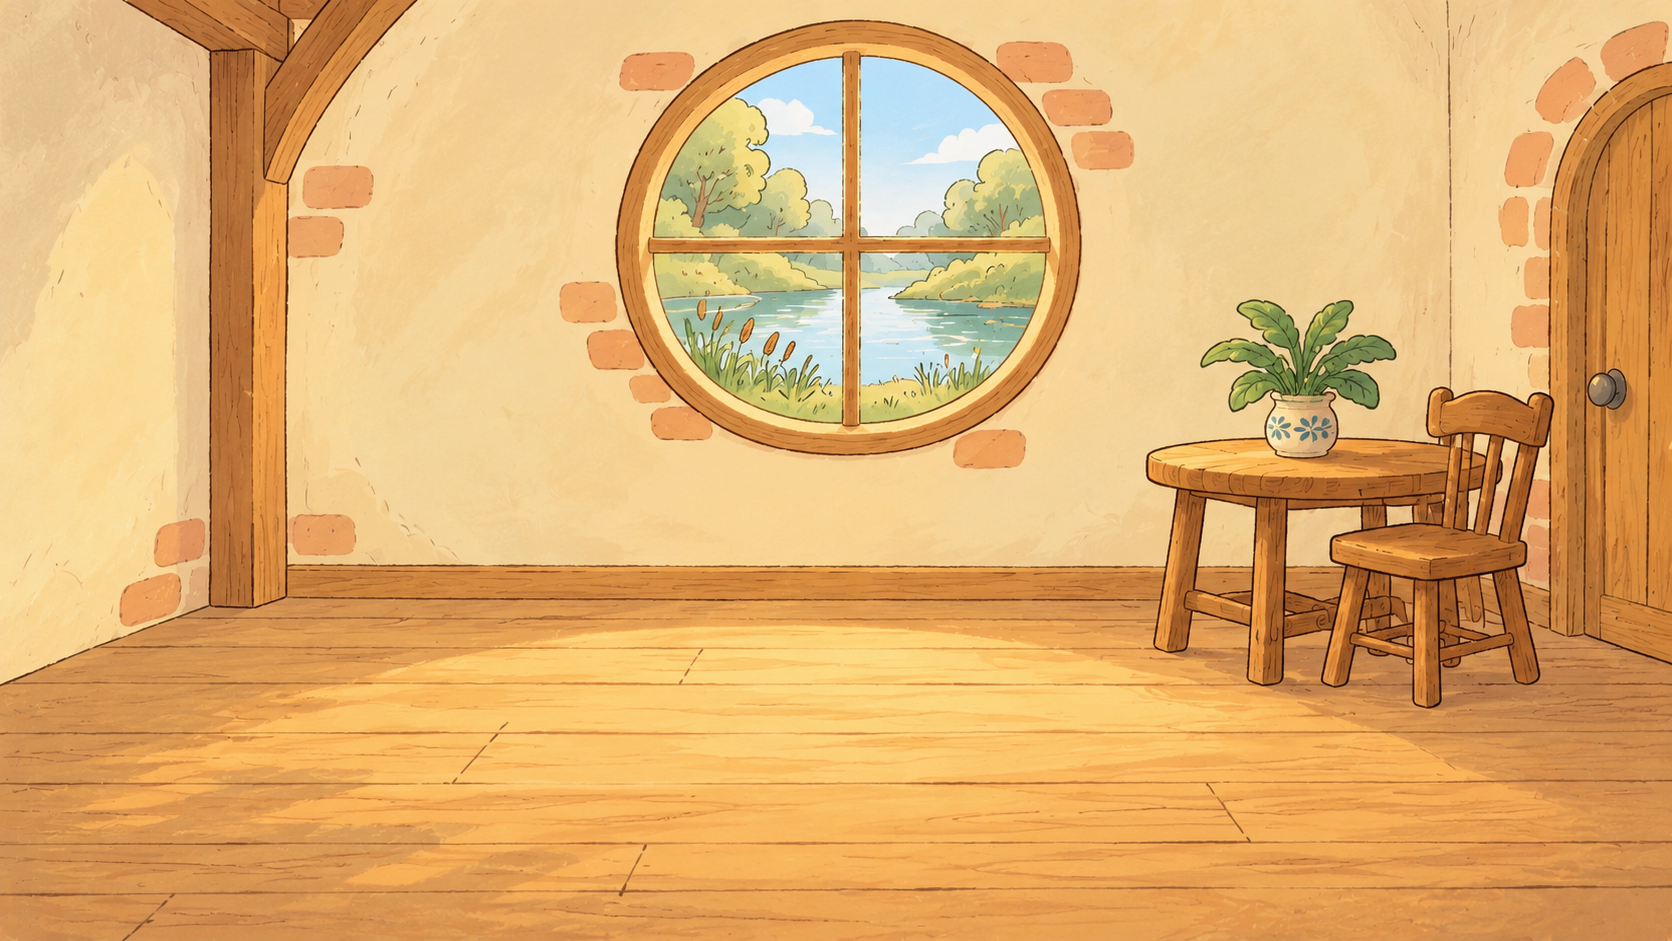
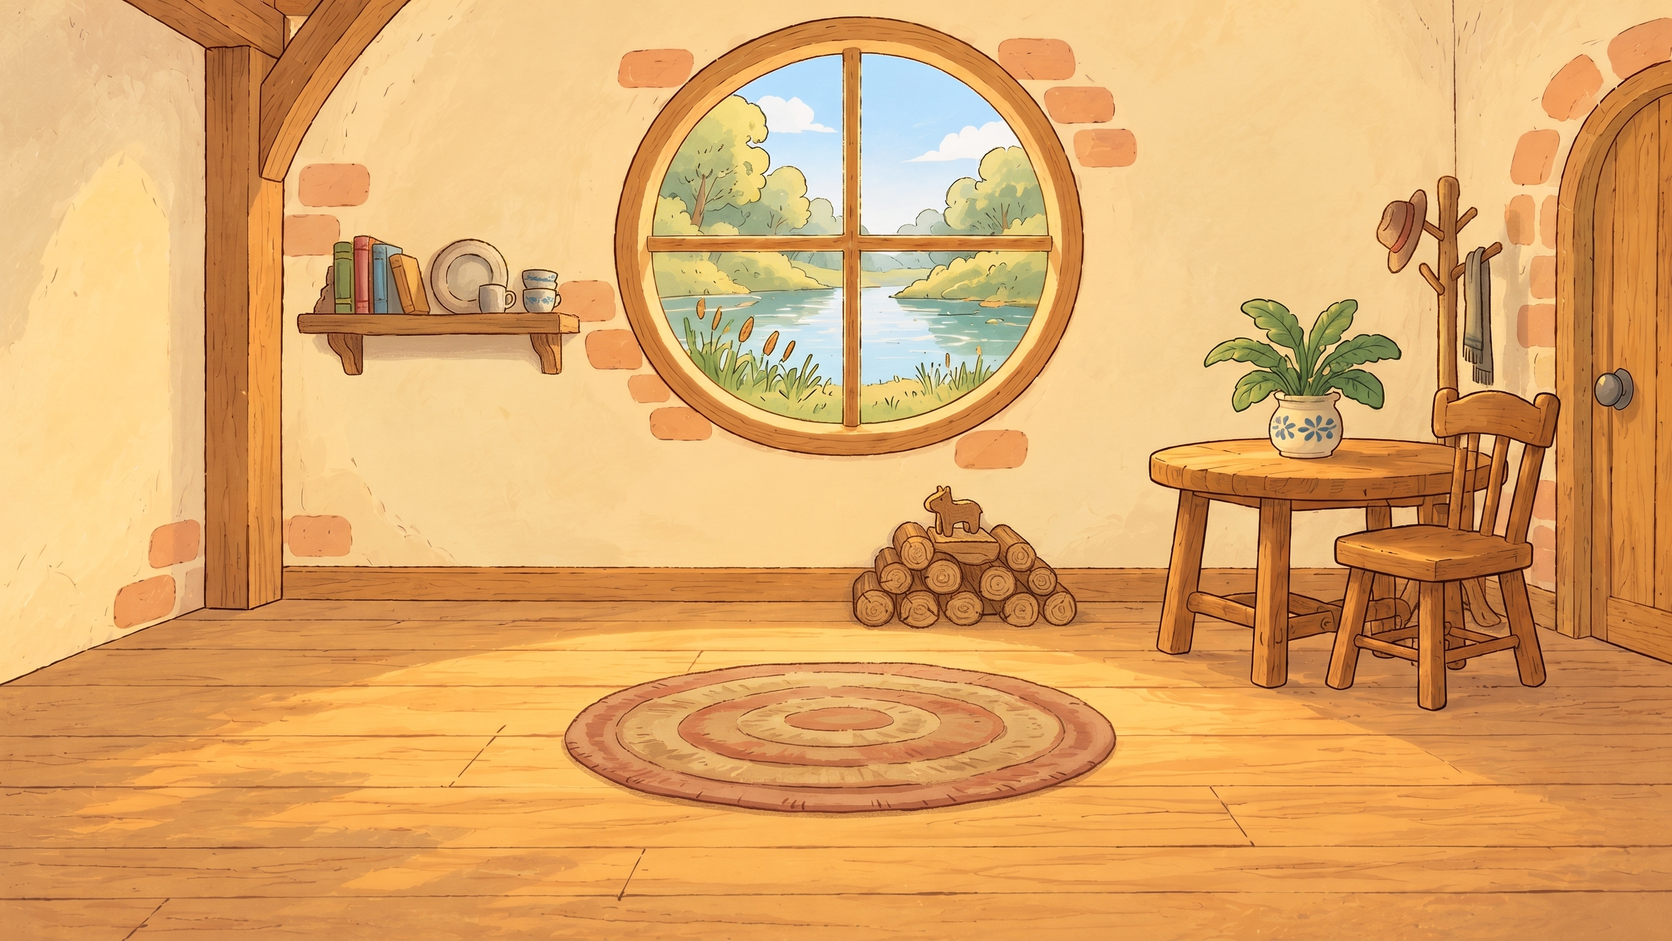
Ben's house gets a shelf, a log pile with a carving, a round rug and a coat stand (Higgsfield edit)

diff --git a/HANDOFF.md b/HANDOFF.md
@@ -493,7 +493,7 @@ node server.js            # http://localhost:5173/
 | 용도 | 적용 파일 (`assets/` 아래) | 비고 |
 |---|---|---|
 | 도서관 | `places/library-higgsfield-v2.png` | 사용자 제작, 1376×768 |
-| 소풍 가방 장소 그림 | `places/picnic-storyboard/picnic-wide.png`(소풍 탁자), `cafe-day.png`(낮의 호수 카페), `ben-home.png`(벤의 집), `garden.webp`(정원), `picnic-documents.png`(로지가 맡긴 가방 소지품 사진) | 사용자 제공·Codex 편집·기존 Higgsfield 그림(출처는 같은 폴더 README). 정원의 두 가방은 소풍 탁자 그림의 가방을 오려 색 입힌 `backpack-blue/red.png`(`scripts/cut-picnic-backpack.py`, 107×106, 오릴 범위와 손으로 그린 윤곽이 가방 바닥선 아래까지 와야 바닥이 일자로 잘리지 않는다), 회사 로비는 `lobby-higgsfield.webp`, 로지의 가방 소지품은 `picnic-rosie-bag.webp`. 대화 바닥 확장은 다섯 장소 모두 `<id>-floor.jpg`(로비는 `lobby-floor.webp`). 도서관 사건의 밤 카페는 그대로 둔다 |
+| 소풍 가방 장소 그림 | `places/picnic-storyboard/picnic-wide.png`(소풍 탁자), `cafe-day.png`(낮의 호수 카페), `ben-home.png`(벤의 집), `garden.webp`(정원), `picnic-documents.png`(로지가 맡긴 가방 소지품 사진) | 사용자 제공·Codex 편집·기존 Higgsfield 그림(출처는 같은 폴더 README). 정원의 두 가방은 소풍 탁자 그림의 가방을 오려 색 입힌 `backpack-blue/red.png`(`scripts/cut-picnic-backpack.py`, 107×106, 오릴 범위와 손으로 그린 윤곽이 가방 바닥선 아래까지 와야 바닥이 일자로 잘리지 않는다), 벤의 집 `ben-home.png`은 너무 비어 보여(사용자 지적) Nano Banana 2.1 2K로 가구를 더한 편집본이다(왼쪽 벽 선반·창 아래 통나무와 나무 조각품·바닥 가운데 둥근 러그·문 옆 옷걸이, job `40af91f1`, 2크레딧). 2752×1536 결과를 원래 비율로 가운데를 잘라 1672×941로 줄였고, 아래 가장자리는 바닥 그대로라 `benhome-floor.jpg`와 이어진다(예전 그림보다 이음 차이가 작다). 회사 로비는 `lobby-higgsfield.webp`, 로지의 가방 소지품은 `picnic-rosie-bag.webp`. 대화 바닥 확장은 다섯 장소 모두 `<id>-floor.jpg`(로비는 `lobby-floor.webp`). 도서관 사건의 밤 카페는 그대로 둔다 |
 | 아직 그림이 없는 인물 | `ui/icons-v2/pending.png`, `pendingSVG` | 벤·미아와 올리·노라의 임시 점선 실루엣(Claude가 PIL·SVG로 그림, 크레딧 없음) |
 | 피해자 분필 윤곽선 | `places/library-chalk-owl.png` | Claude 제작(Nano Banana 2.1, job 418fefc0), 640×450 투명 PNG. 검은 배경 위 흰 분필 선을 밝기로 투명도를 만들고 선을 조금 굵혔다. 원본 `library-chalk-owl-original.png` |
 | 빵집 | `places/bakery-higgsfield.png` | 사용자 제작, 1376×768. 계산대 쪽지를 지우고 예약 주문 칠판·쓰레기통 신문, 오븐 속 탄 파이를 그려 넣은 판(Claude, `assets/places/README.md`) |

diff --git a/design/case-01-picnic-bag.md b/design/case-01-picnic-bag.md
@@ -163,6 +163,6 @@
 - 카페 낮 배경: `assets/places/picnic-storyboard/cafe-day.png`. 밤 포스터와 낙서가 없는 낮 장면이다. 도서관 사건의 밤 카페 그림은 건드리지 않는다.
 - 정원: 기존 `garden.webp` 재사용. 미아·올리의 대화 배경이다. 사진 촬영용 파란·빨간 가방 소품 2개는 주인 곁에 배치해야 한다.
 - 노라의 회사 1층 로비: 신규 장소 배경과 노라 전신·얼굴 그림이 필요하다. 벤이 가져온 파란 가방은 대화 소품이고, 로비 촬영 프레임·단서는 만들지 않는다.
-- 벤의 집: `assets/places/picnic-storyboard/ben-home.png`. 크림색 벽과 둥근 강가 창, 오른쪽 작은 탁자·의자가 있는 집 내부. 캐릭터가 설 중앙을 비웠다. 새 친구 전신·얼굴·입 그림, 대사 및 단서 음성은 아직 제작하지 않았다.
+- 벤의 집: `assets/places/picnic-storyboard/ben-home.png`. 크림색 벽과 둥근 강가 창, 왼쪽 벽 선반(책·그릇), 창 아래 통나무 더미와 나무 조각품, 바닥 가운데 둥근 러그, 오른쪽 작은 탁자·의자·화분과 문 옆 옷걸이가 있는 집 내부(2026-11-02 사용자와 정해 가구를 더함). 벤은 러그 위에 선다.
 - 소지품 UI: 로지에게 받은 가방을 보관·열어 보고, 노라 앞에서 선택·건네주기 후 로지의 가방으로 교체하는 흐름은 게임에 있다(엔진 공용).
 - 사건 ID 제안 `picnic-bag`. 현 도서관 사건의 `case01` 저장 데이터를 재사용하지 않는다.
